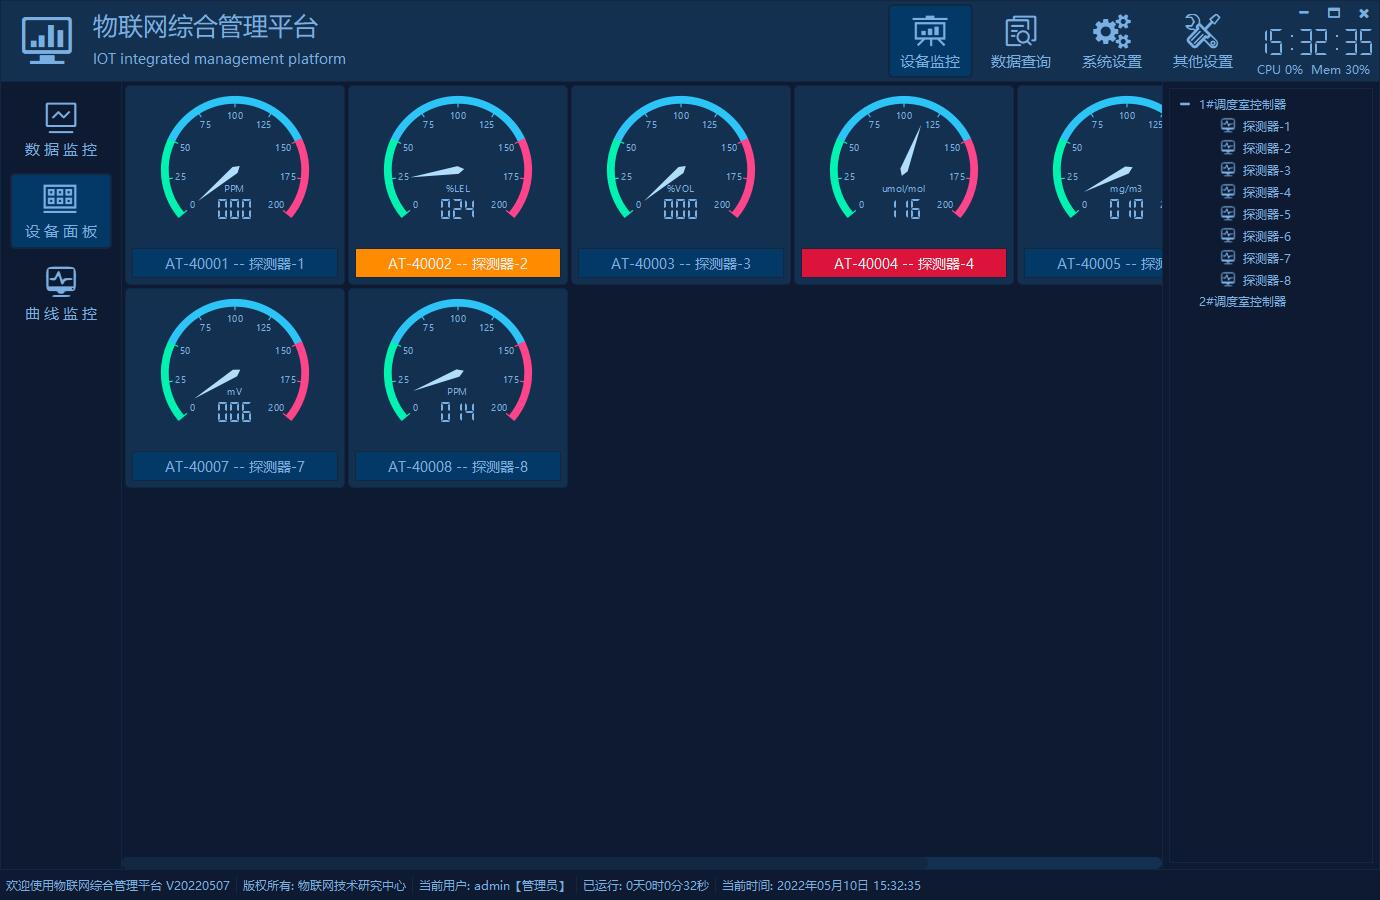
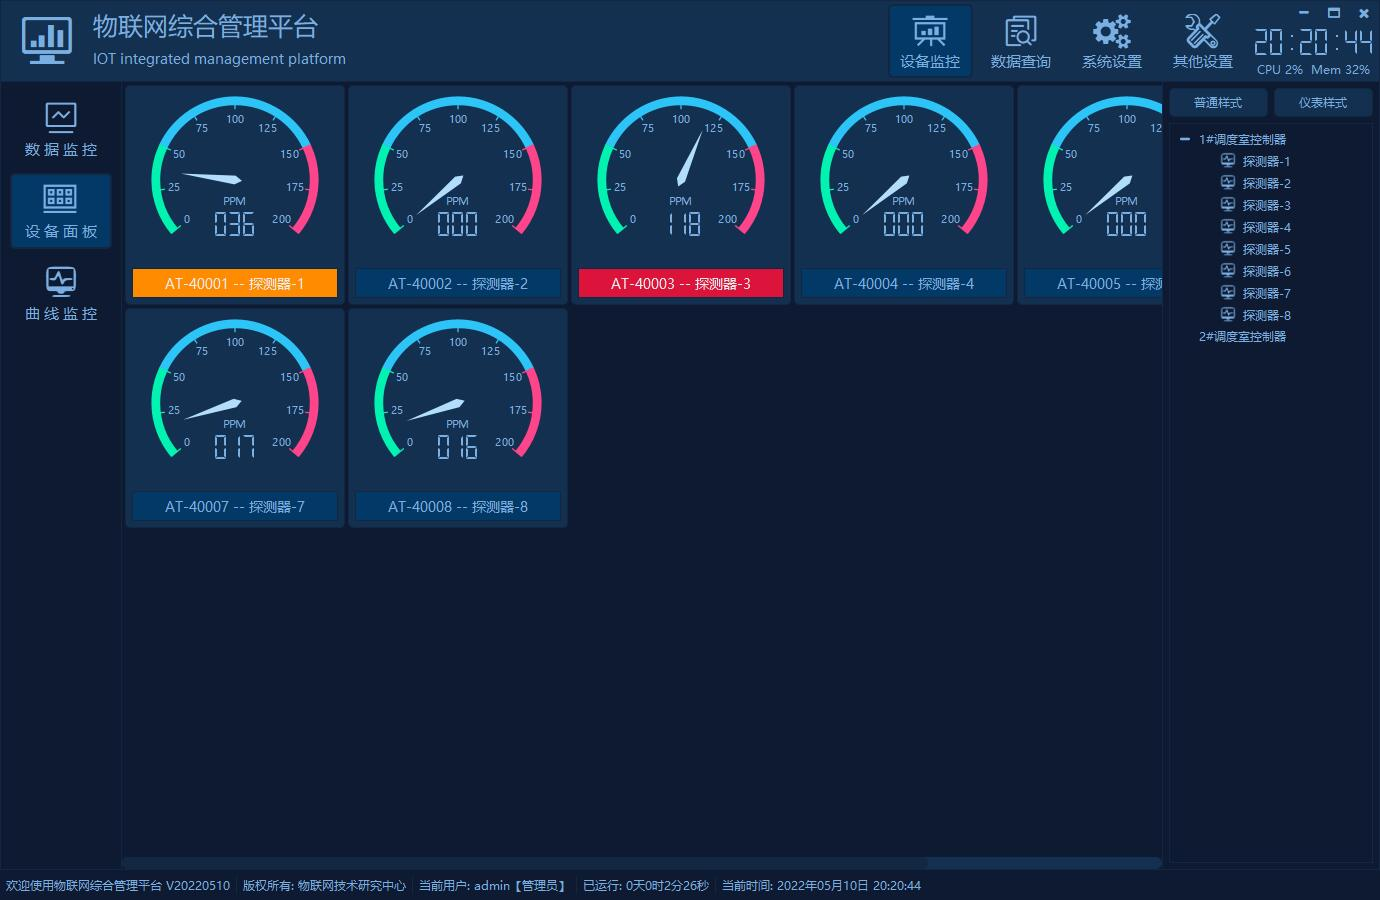
更新说明书

diff --git a/snap_iotsystem/readme.md b/snap_iotsystem/readme.md
@@ -61,9 +61,10 @@
 19. 数据库支持多种，包括sqlite、mysql、sqlserver、postgresql、oracle、人大金仓等。
 20. 本地设备采集到的数据实时上传到云端，以便手机APP或者web等其他方式提取。
 21. 自带设备模拟工具，支持不同型号的多个设备数据模拟，支持串口和网络，同时还带数据库数据模拟，以便在没有设备的时候测试数据。
-
-22. 支持xp、win7、win10、、win11、linux、mac、各种国产系统（UOS、中标麒麟、银河麒麟等）、嵌入式linux等系统。
-23. 注释完整，项目结构清晰，超级详细完整的使用开发手册，精确到每个代码文件的功能说明，不断持续迭代版本。
+22. 标准协议，各种控制器类型、探测器类型、种类、符号等全部自定义，非常灵活和强大，适用于各种场景接入。
+23. 同时集成了串口通信、网络通信、数据库通信、数据导入导出打印、通信协议解析、界面UI、全局换肤等众多组件和知识点，非常适合新手入门和进阶。
+24. 支持xp、win7、win10、、win11、linux、mac、各种国产系统（UOS、中标麒麟、银河麒麟等）、嵌入式linux等系统。
+25. 注释完整，项目结构清晰，超级详细完整的使用开发手册，精确到每个代码文件的功能说明，不断持续迭代版本。
 
 ### 0.3 相关站点
 1. 国内站点：[https://gitee.com/feiyangqingyun](https://gitee.com/feiyangqingyun)
@@ -103,6 +104,9 @@
 4. 将设备面板统一到一个类，多种样式选择，普通样式、仪表样式等。
 5. 说明书中通信协议举例，重新整理，更丰富更完整。
 6. 消息栏改成0表示自动设置行数，100表示设置0行，其他表示选择的行数。
+7. 将面板样式切换直接移到主界面，方便直接切换立即应用。
+8. 删减合并一些冗余的代码。
+9. 修复离线后仪表盘的值没有清零的BUG。
 
 **V20220428**
 1. 将项目统一命名为iotsystem，对应设备模拟工具iottool。
@@ -616,7 +620,13 @@ void DbHelper::getDbDefaultInfo(const QString &dbType, QString &hostPort,
 表格依次显示序号、位号、控制器名称、控制器型号、探测器名称、探测器型号、气体种类、浓度值、气体符号。
 
 ### 4.2 设备面板
-设备作为一个个独立的设备面板控件，有多少个探测器就会生成多少个面板，放在容器中，可以在系统设置中选择设备列数，按照该设备列数来排列，超过会自动产生滚动条拖动查看。报警后整个设备面板会突出颜色显示比如高报是红色、低报是黄色等。双击探测器面板，会跳转到该探测器的详细信息界面，在该界面上后期可以按照实际用户需求定制回控操作。
+**面板说明**
+1. 探测器作为一个个独立的设备面板控件。
+2. 有多少个探测器就会生成多少个面板，放在面板容器中。
+3. 可以在系统设置中选择设备列数，按照该设备列数来排列，超过会自动产生滚动条拖动查看。
+4. 报警后整个设备面板会突出颜色显示比如高报是红色、低报是黄色等。
+5. 双击探测器面板，会跳转到该探测器的详细信息界面，在该界面上后期可以按照实际用户需求定制回控操作。
+6. 面板有多种样式可供选择，比如普通样式、仪表样式。可直接在右侧切换立即运用。
 
 #### 4.2.1 普通样式
  ![](snap/4-2-1.jpg)
@@ -1124,9 +1134,7 @@ void DbHelper::getDbDefaultInfo(const QString &dbType, QString &hostPort,
 | 名称 | 说明 |
 | :------ | :------ |
 | frmdevicecontrol | 设备回控模块，目前就显示具体的探测器信息，后期按照用户需求定制。 |
-| frmdevicenode | 设备面板样式1，精简版本只有文字信息，每个探测器在设备监控界面中都占用这样一个面板，显示具体的信息，包括实时更新值。 |
-| frmdevicenode2 | 设备面板样式2，复杂版本带仪表盘，可以在代码中切换使用精简版本还是复杂版本的面板。 |
-| frmdevicepanel | 通用设备面板样式，精简版本只有文字信息。 |
+| frmdevicenode | 设备面板模块，同时包含了多种面板样式比如普通样式、仪表样式，可以在系统设置中动态切换并立即应用，每个探测器在设备监控界面中都占用这样一个面板，显示具体的信息，包括实时更新值。 |
 
 ##### 8.3.4.6 模块-frmview
  ![](snap/8-3-4-6.jpg)

diff --git a/README.md b/README.md
@@ -191,8 +191,10 @@
 19. 数据库支持多种，包括sqlite、mysql、sqlserver、postgresql、oracle、人大金仓等。
 20. 本地设备采集到的数据实时上传到云端，以便手机APP或者web等其他方式提取。
 21. 自带设备模拟工具，支持不同型号的多个设备数据模拟，同时还带数据库数据模拟，以便在没有设备的时候测试数据。
-22. 支持xp、win7、win10、、win11、linux、mac、各种国产系统（UOS、中标麒麟、银河麒麟等）、嵌入式linux等系统。
-23. 注释完整，项目结构清晰，超级详细完整的使用开发手册，精确到每个代码文件的功能说明，不断持续迭代版本。
+22. 标准协议，各种控制器类型、探测器类型、种类、符号等全部自定义，非常灵活和强大，适用于各种场景接入。
+23. 同时集成了串口通信、网络通信、数据库通信、数据导入导出打印、通信协议解析、界面UI、全局换肤等众多组件和知识点，非常适合新手入门和进阶。
+24. 支持xp、win7、win10、、win11、linux、mac、各种国产系统（UOS、中标麒麟、银河麒麟等）、嵌入式linux等系统。
+25. 注释完整，项目结构清晰，超级详细完整的使用开发手册，精确到每个代码文件的功能说明，不断持续迭代版本。
 
 ### 4.2 效果图
  ![](snap_iotsystem/0.gif)
